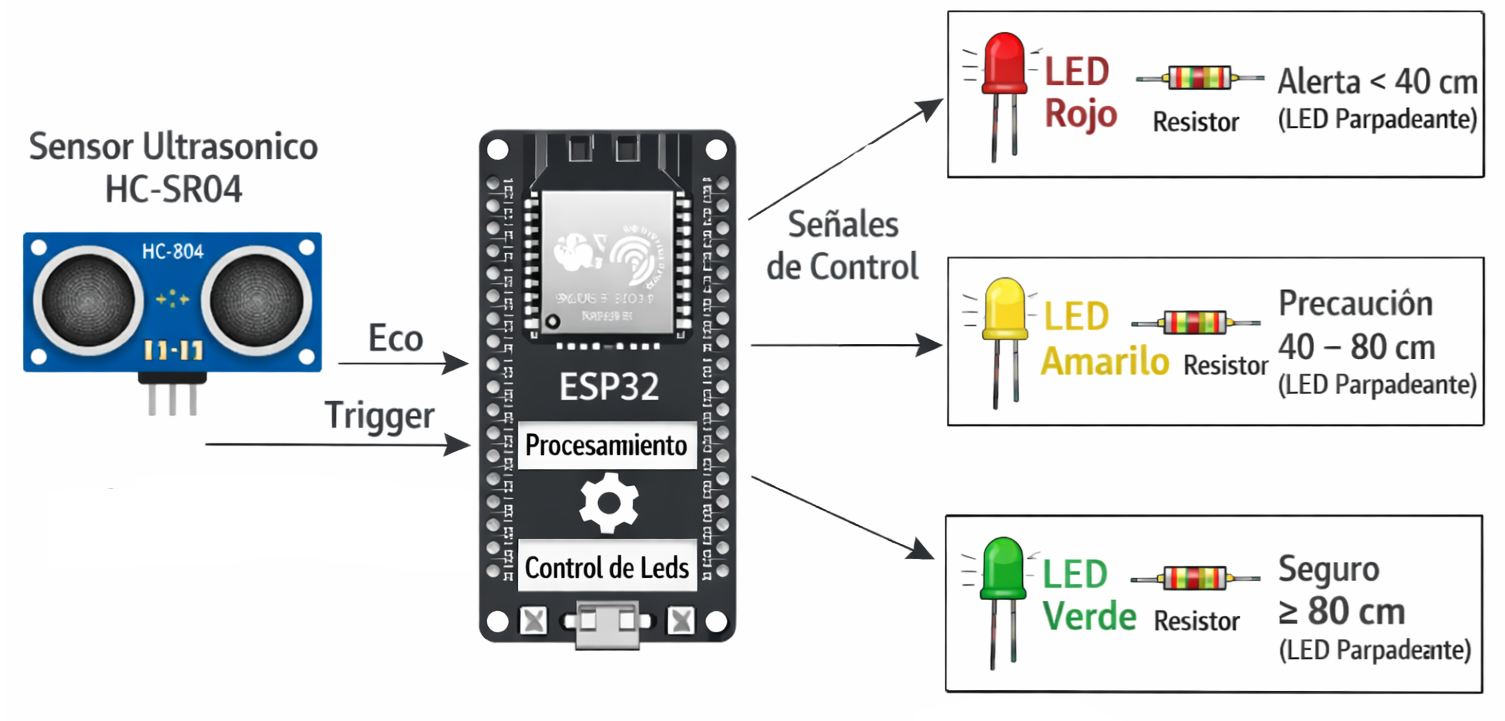
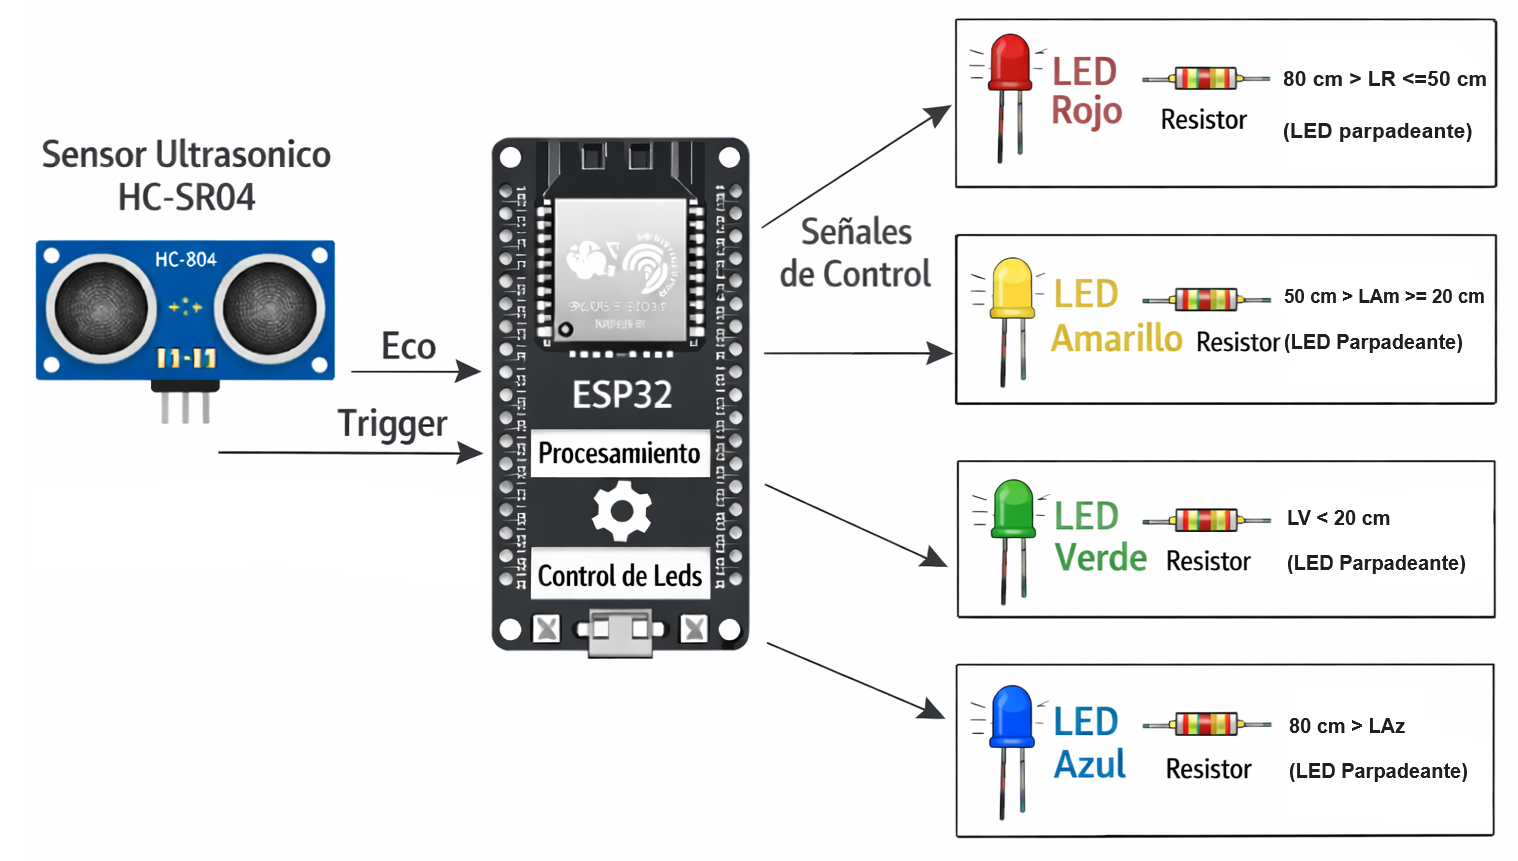
Adicion de todos los diagramas al informe

diff --git a/Project1/main/Archivos informe/Infome.md b/Project1/main/Archivos informe/Infome.md
@@ -53,10 +53,14 @@ Marzo 2026
 # 2. Diseño del Sistema
 
 ## 2.1 Diagrama de circuito
-
+![Diagrama](Imagenes/diagrama_circuito.jpeg)
 ## 2.2 Diagrama de arquitectura del sistema
-![Diagrama_de_arquitectura_del_sistema](Imagenes/Diagrama_de_arquitectura.png)
+![Diagrama](Imagenes/Diagrama_de_arquitectura.png)
 ## 2.3 Diagramas estructurales y de comportamiento
+### 2.3.1 Diagrama de secuencia
+![Diagrama](Imagenes/diagrama_secuencia.jpeg)
+### 2.3.1 Diagramas de uml
+![Diagrama](Imagenes/diagrama_uml.jpeg)
 
 # 3. Implementación
 
